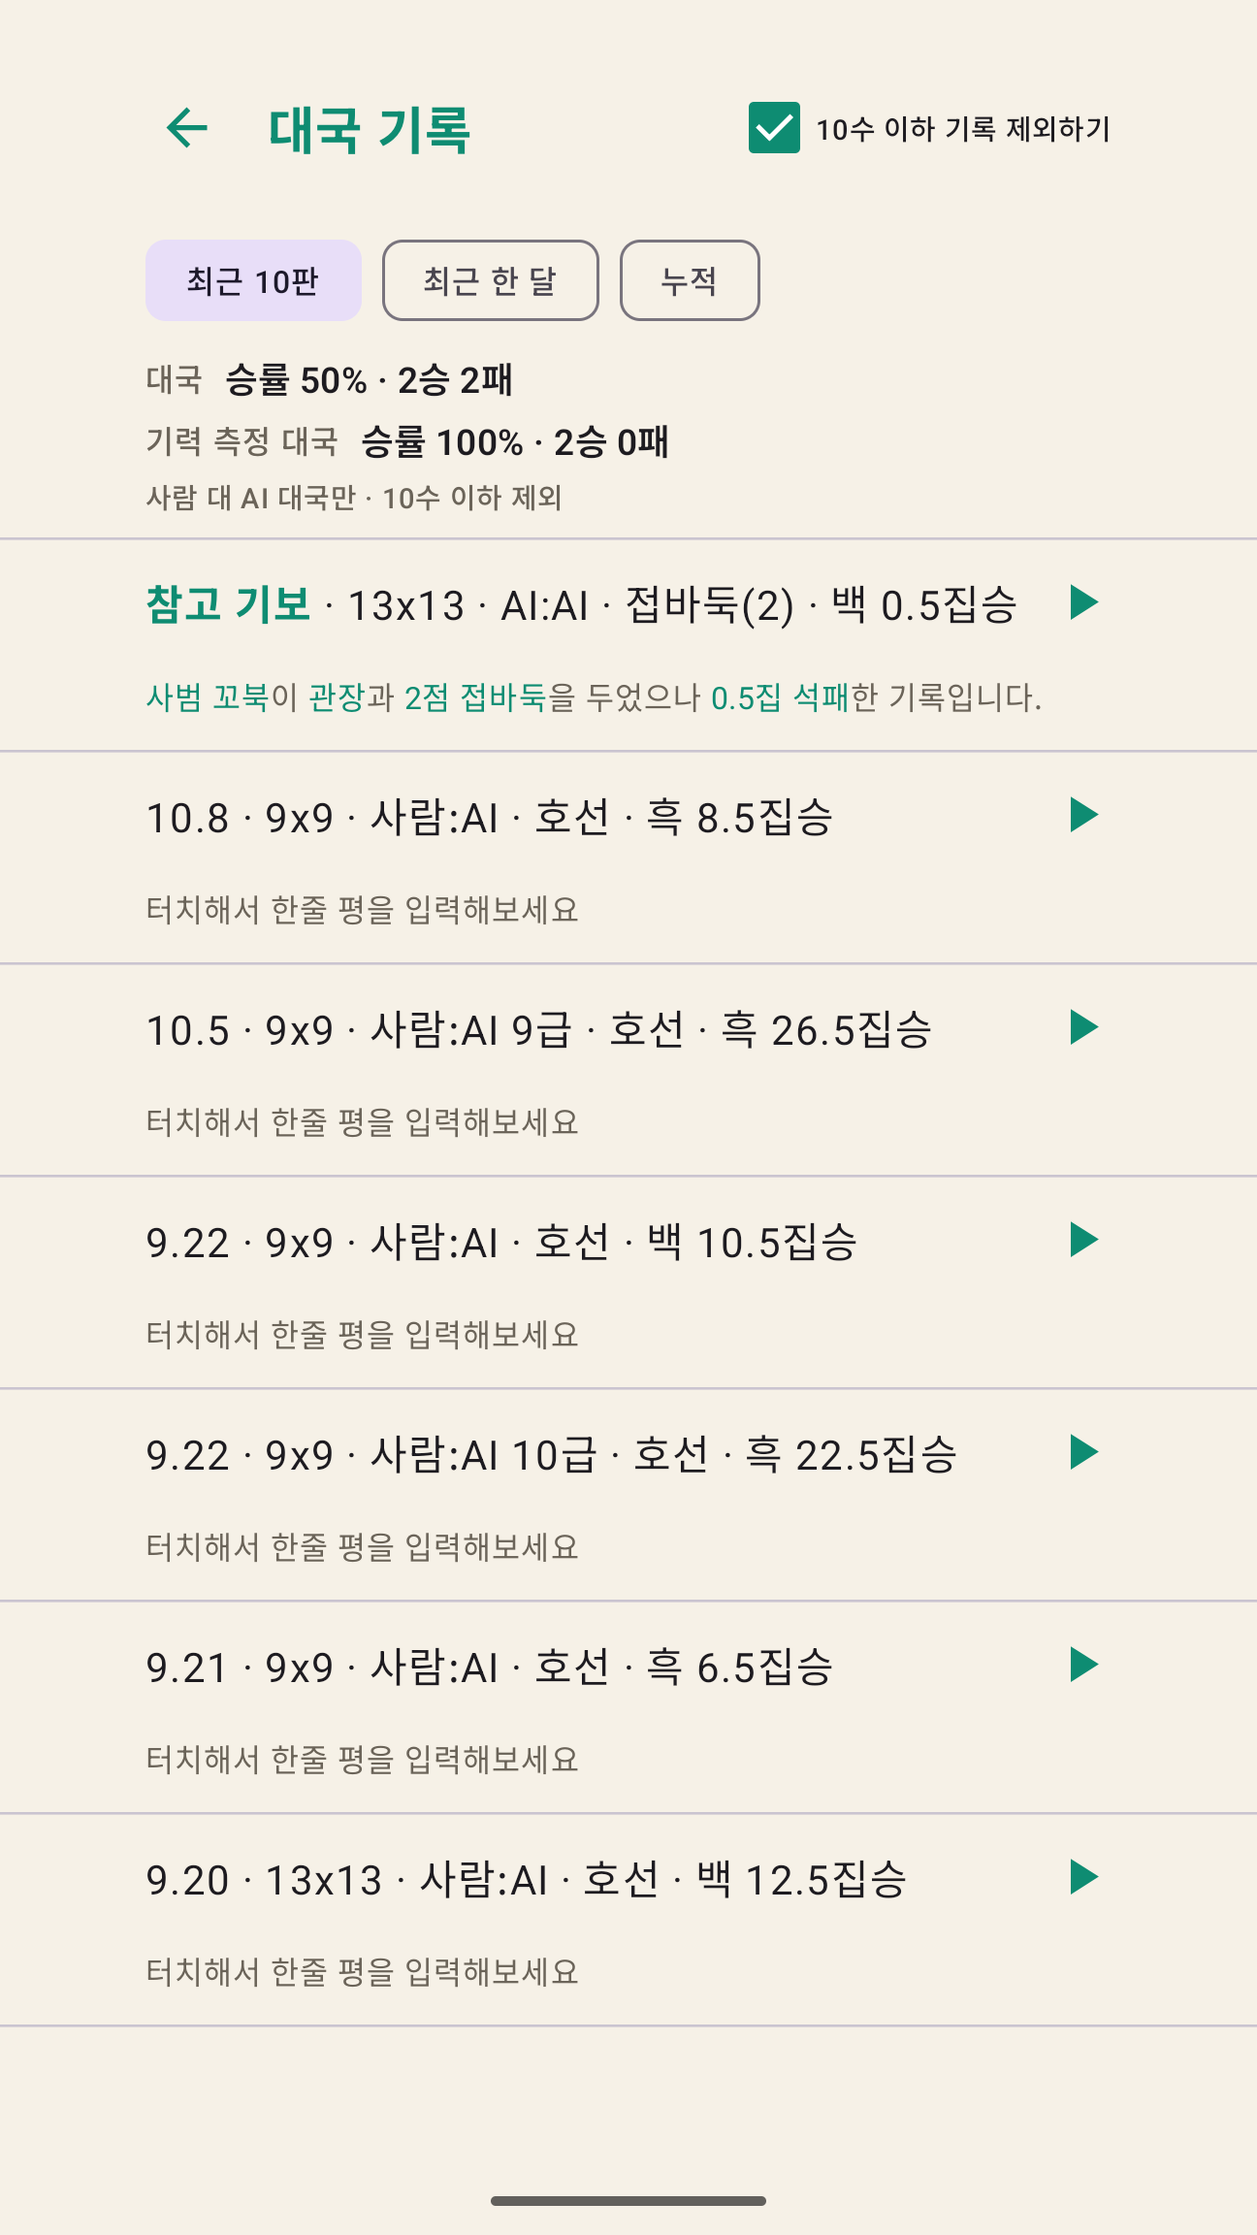
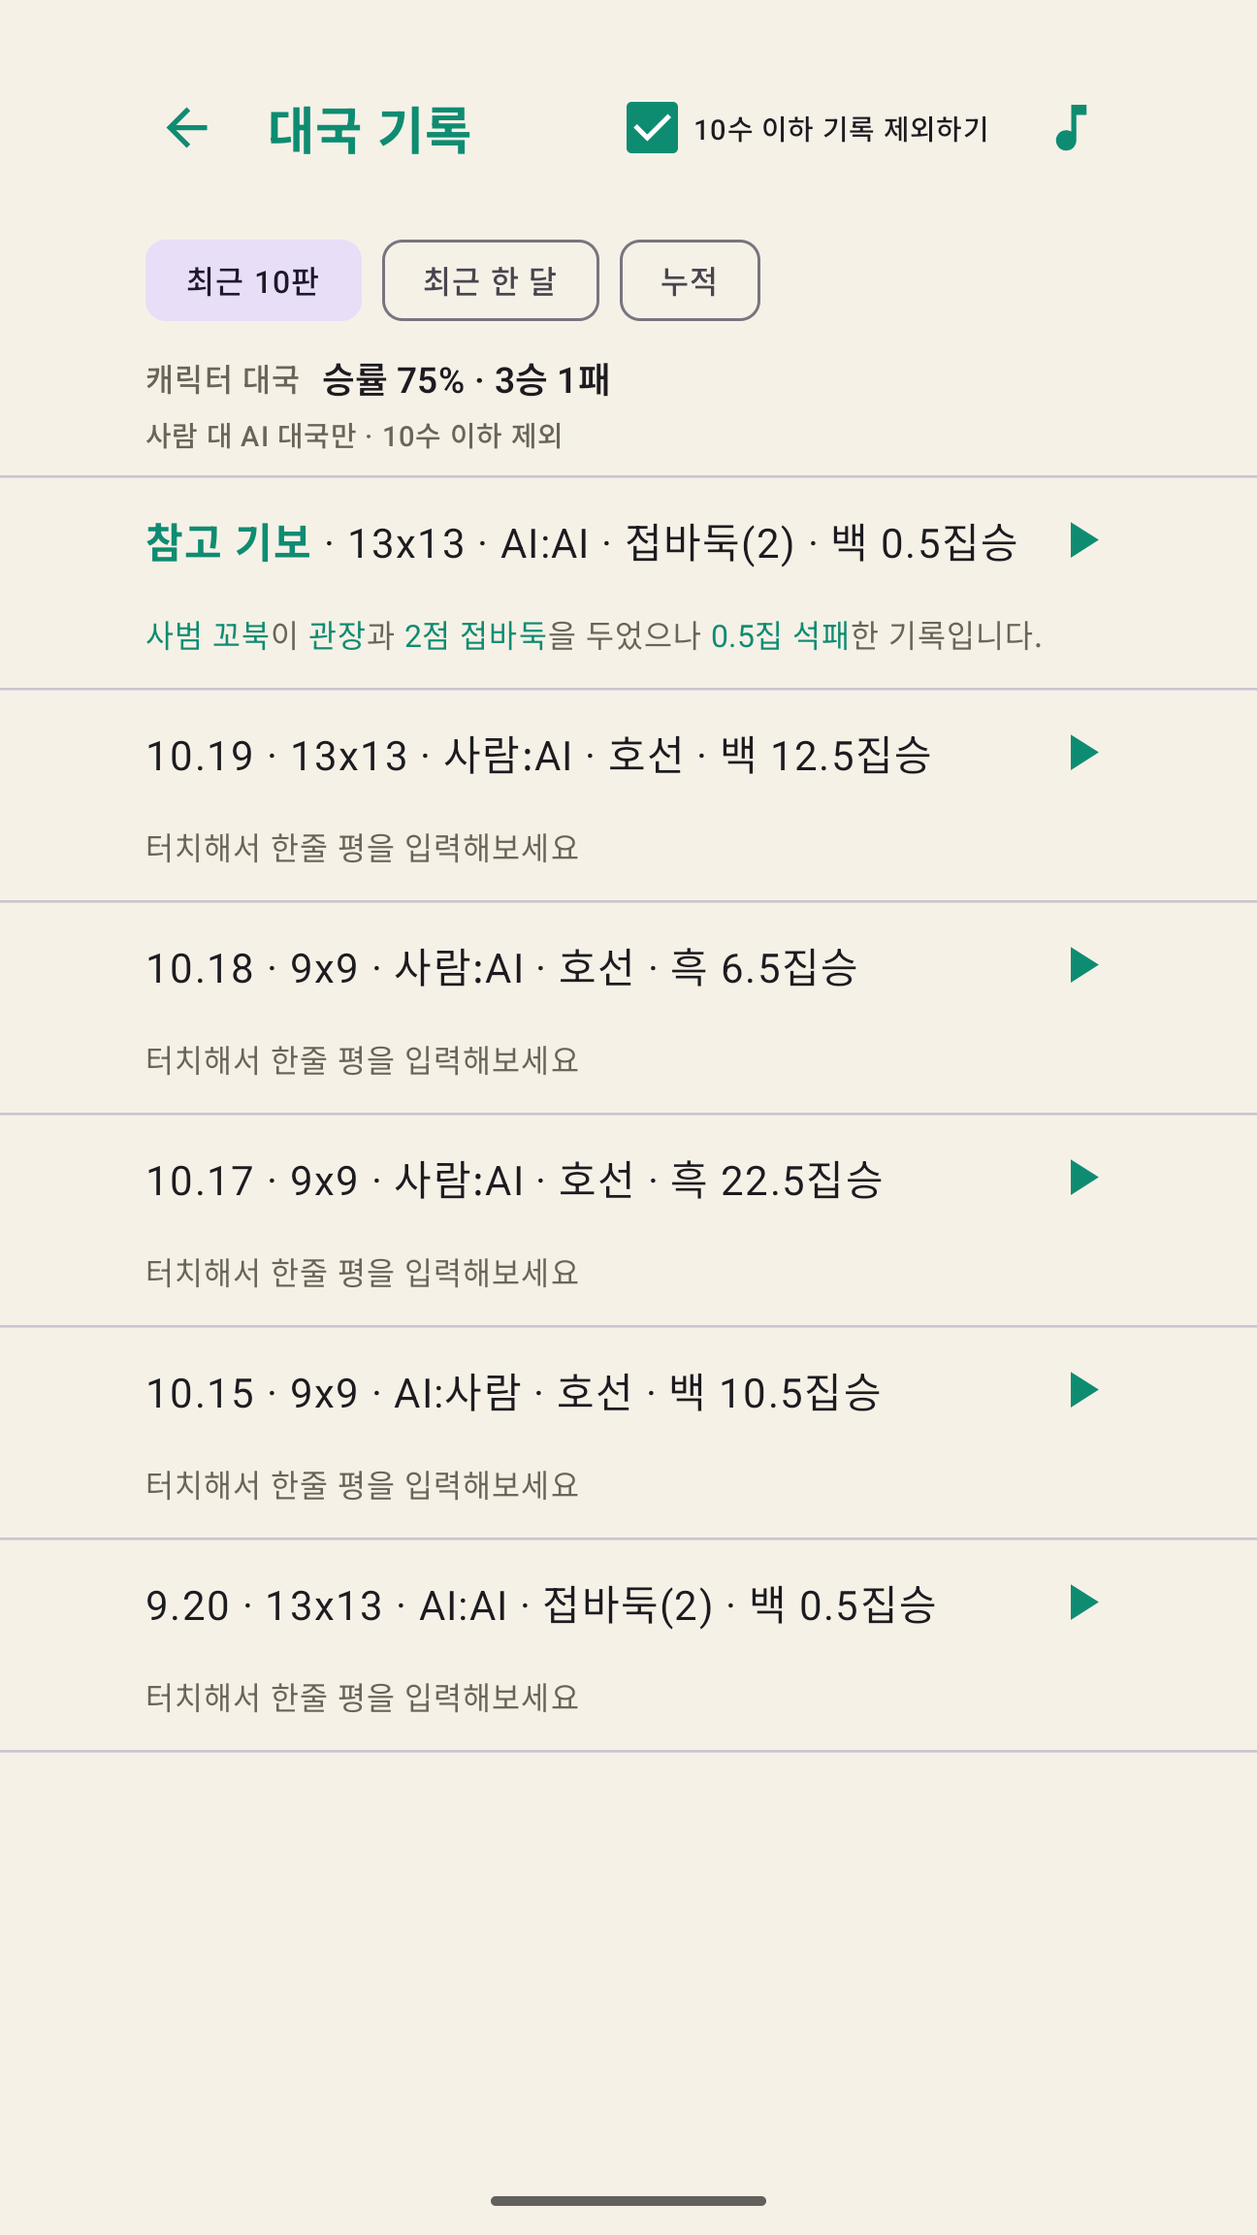
docs(store): 1.6.0 screenshots and three feature graphic drafts (user 2026-10-20)
Screenshots (phone, 7in and 10in folders hold the same eight; phone also keeps one alternate):
01 home · 02 game records (AlphaGo vs Lee Sedol game 4, move 78, with the estimate, graph and turning
points) · 03 in-game estimate · 04 match setup · 05 top moves (three candidates this time) · 06 board-photo
scan result (the recognized board; the photo itself stays on its own tab) · 07 game history (75% · 3-1)
· 08 my page. The order puts the 1.6.0 headline second; the user decides the upload order.
Captured on the emulator (Pixel 7, 1080x2400, offline so no test banner), debug 1.6.0 at 6c33500d,
converted with make-store-screenshots.py. Staging is listed in the README (branch game from the
reference record, history index seats rewritten and restored afterwards).

Feature graphics: A brand (grid icon stones + name + tagline), B screens (two real screens, no device
frame), C characters (the five opponents on a board). Based on 16 Go apps' feature graphics on Play;
key content inside the central 924x400. The old graphic stays; it still says 「바둑 AI」, 「무료」 and
「로그인 없음」. scripts/make-feature-graphics.py redraws all three byte-for-byte (font: Noto Sans CJK KR,
OFL, not stored in the repo).

diff --git a/scripts/make-feature-graphics.py b/scripts/make-feature-graphics.py
@@ -1,0 +1,144 @@
+#!/usr/bin/env python3
+"""Play 그래픽 이미지(1024x500) 세 안을 그린다 — A 브랜드형 · B 화면형 · C 캐릭터형(2026-10-20, `work/play-store-assets/README.md` 맨 위 절).
+
+사용법:
+    python3 scripts/make-feature-graphics.py <글꼴 폴더> <출력 폴더> A C B <대국 형세 캡처.png> <기보 보기 캡처.png>
+
+- 글꼴은 Noto Sans CJK KR(OFL 1.1 — 안드로이드의 한글 기본 글꼴과 같은 계열)의 Black · Bold · Medium OTF다. 저장소에 싣지 않는다:
+  https://github.com/notofonts/noto-cjk/tree/main/Sans/OTF/Korean
+- B의 두 캡처는 에뮬레이터 원본(1080x2400)이다 — 대국 화면(형세 보기를 켠 판)과 기보 보기(형세를 켠 판 · 그래프 · 변곡점).
+- 핵심(이름 · 문구 · 주 그림)은 가운데 924x400 안에 둔다(업계 관행 — Google은 픽셀 값을 공표하지 않는다). 결과는 불투명 RGB PNG.
+- 문구 규칙: 앱에 있는 것만 · 가격/무료/최고/다운로드 같은 판촉어 없음 · 「로그인 없이」를 쓰지 않음(2026-09-18 결정).
+
+Pillow가 필요하다. 릴리스 게이트에는 넣지 않는다 — 그래픽을 다시 만들 때 사람이 직접 돌린다.
+"""
+import sys, math, random
+from PIL import Image, ImageDraw, ImageFont, ImageFilter
+
+from pathlib import Path
+
+REPO = Path(__file__).resolve().parents[1]
+FONT_DIR = sys.argv[1]
+OUT = sys.argv[2]
+W, H = 1024, 500
+CREAM = (245, 240, 230)
+INK = (42, 37, 32)
+SUB = (107, 100, 89)       # BrandSecondaryColor
+TEAL = (14, 140, 114)      # BrandPrimaryColor
+
+def font(weight, size):
+    return ImageFont.truetype(f"{FONT_DIR}/NotoSansCJKkr-{weight}.otf", size)
+
+def text_w(d, s, f):
+    b = d.textbbox((0, 0), s, font=f); return b[2] - b[0]
+
+def brand(path):
+    im = Image.new("RGB", (W, H), CREAM)
+    icon = Image.open(f"{REPO}/work/play-store-assets/app_icon/app_icon_512x512_grid.png").convert("RGB").resize((470, 470), Image.LANCZOS)
+    im.paste(icon, (40, 15))
+    d = ImageDraw.Draw(im)
+    x = 520
+    f1, f2, f3 = font("Black", 74), font("Medium", 33), font("Bold", 25)
+    d.text((x, 118), "포켓 바둑 코치", font=f1, fill=INK)
+    d.text((x, 232), "AI와 두고, 돌아보고,", font=f2, fill=SUB)
+    d.text((x, 278), "명국을 한 수씩 놓아 보는 바둑", font=f2, fill=SUB)
+    # 짧은 낱말 셋 — 알약 모양으로(텍스트 줄이 아니라 표지처럼 읽히게)
+    y = 352; px = x
+    for word in ("캐릭터 대국", "형세 판단", "기보 보기"):
+        tw = text_w(d, word, f3)
+        d.rounded_rectangle([px, y, px + tw + 32, y + 46], radius=23, fill=(255, 255, 255), outline=TEAL, width=2)
+        d.text((px + 16, y + 6), word, font=f3, fill=TEAL)
+        px += tw + 32 + 12
+    assert px <= 974 + 12, px
+    im.save(path)
+
+def wood_board(size, lines=None, spacing=56, origin=(0, 0), seed=7):
+    """나뭇결이 살짝 있는 바둑판 바탕 + 격자."""
+    w, h = size
+    rnd = random.Random(seed)
+    im = Image.new("RGB", size, (226, 186, 112))
+    d = ImageDraw.Draw(im)
+    for y in range(h):  # 위아래로 아주 약한 그라데이션
+        t = y / h
+        d.line([(0, y), (w, y)], fill=(round(232 - 14 * t), round(193 - 14 * t), round(120 - 12 * t)))
+    grain = Image.new("L", size, 0); g = ImageDraw.Draw(grain)
+    for _ in range(140):
+        y0 = rnd.uniform(-40, h + 40); amp = rnd.uniform(4, 16); ph = rnd.uniform(0, 6.28); k = rnd.uniform(0.004, 0.012)
+        pts = [(x, y0 + amp * math.sin(k * x + ph)) for x in range(0, w + 8, 8)]
+        g.line(pts, fill=rnd.randint(10, 28), width=rnd.choice((1, 2)))
+    grain = grain.filter(ImageFilter.GaussianBlur(1.2))
+    im = Image.composite(Image.new("RGB", size, (150, 104, 48)), im, grain)
+    d = ImageDraw.Draw(im)
+    ox, oy = origin
+    line = (128, 92, 48)
+    xs = [ox + i * spacing for i in range(-20, 40) if 0 <= ox + i * spacing <= w]
+    ys = [oy + i * spacing for i in range(-20, 40) if 0 <= oy + i * spacing <= h]
+    for x in xs: d.line([(x, 0), (x, h)], fill=line, width=2)
+    for y in ys: d.line([(0, y), (w, y)], fill=line, width=2)
+    return im
+
+def characters(path):
+    im = wood_board((W, H), spacing=62, origin=(30, 26))
+    # 글자 자리에 크림 판(바둑판 위에 놓인 이름표처럼)
+    panel = Image.new("RGBA", (W, H), (0, 0, 0, 0)); pd = ImageDraw.Draw(panel)
+    pd.rounded_rectangle([56, 42, 600, 176], radius=22, fill=(245, 240, 230, 238))
+    im = Image.alpha_composite(im.convert("RGBA"), panel)
+    d = ImageDraw.Draw(im)
+    d.text((84, 52), "포켓 바둑 코치", font=font("Black", 56), fill=INK)
+    d.text((86, 126), "15급부터 7단까지, 다섯 상대와 한 판", font=font("Medium", 29), fill=SUB)
+    # 다섯 캐릭터 — 약한 상대부터 왼쪽으로(문하생 판다 · 문하생 돌뫼 · 수제자 반상 · 사범 꼬북 · 관장 천원)
+    size = 236
+    xs = [62, 226, 390, 554, 718]
+    for i, x in enumerate(xs, start=1):
+        c = Image.open(f"{REPO}/app-android/src/main/res/drawable-nodpi/bot_fast_beginner_{i}.webp").convert("RGBA").resize((size, size), Image.LANCZOS)
+        # 발밑 그림자
+        sh = Image.new("RGBA", (W, H), (0, 0, 0, 0)); sd = ImageDraw.Draw(sh)
+        sd.ellipse([x + 40, 418, x + size - 40, 442], fill=(60, 35, 10, 90))
+        im = Image.alpha_composite(im, sh.filter(ImageFilter.GaussianBlur(6)))
+        im.alpha_composite(c, (x, 208))
+    im.convert("RGB").save(path)
+
+def card(capture, box, height, radius=22):
+    im = Image.open(capture).convert("RGB").crop(box)
+    w = round(im.width * height / im.height)
+    im = im.resize((w, height), Image.LANCZOS).convert("RGBA")
+    m = Image.new("L", im.size, 0); ImageDraw.Draw(m).rounded_rectangle([0, 0, w - 1, height - 1], radius=radius, fill=255)
+    im.putalpha(m)
+    return im
+
+def place(base, im, xy, angle):
+    rot = im.rotate(angle, resample=Image.BICUBIC, expand=True)
+    shadow = Image.new("RGBA", base.size, (0, 0, 0, 0))
+    sm = Image.new("RGBA", rot.size, (0, 0, 0, 0)); sm.putalpha(rot.getchannel("A").point(lambda a: a * 0.45))
+    shadow.alpha_composite(sm, (xy[0] + 6, xy[1] + 10))
+    base.alpha_composite(shadow.filter(ImageFilter.GaussianBlur(10)))
+    base.alpha_composite(rot, xy)
+
+def screens(path, game_capture, records_capture):
+    im = Image.new("RGBA", (W, H))
+    d = ImageDraw.Draw(im)
+    for x in range(W):  # 왼쪽 위 밝은 청록 → 오른쪽 아래 짙은 청록
+        t = x / W
+        d.line([(x, 0), (x, H)], fill=(round(16 - 6 * t), round(150 - 40 * t), round(122 - 32 * t), 255))
+    d.text((66, 140), "포켓 바둑 코치", font=font("Black", 56), fill=(255, 255, 255))
+    d.text((68, 230), "두면서 형세를 보고,", font=font("Medium", 30), fill=(214, 240, 232))
+    d.text((68, 274), "명국은 한 수씩 놓아 보는 바둑", font=font("Medium", 30), fill=(214, 240, 232))
+    f = font("Bold", 22); y = 344; px = 68
+    for word in ("형세 판단", "추천 수", "기보 보기"):
+        tw = text_w(d, word, f)
+        d.rounded_rectangle([px, y, px + tw + 28, y + 40], radius=20, outline=(214, 240, 232), width=2)
+        d.text((px + 14, y + 5), word, font=f, fill=(255, 255, 255))
+        px += tw + 28 + 10
+    # 오른쪽 — 실제 화면 두 장(기기 틀 없이): 대국 중 형세 · 기보 보기(그래프 · 형세)
+    game = card(game_capture, (0, 420, 1080, 1950), 358)
+    rec = card(records_capture, (0, 370, 1080, 1870), 358)
+    place(im, game, (500, 62), 4)
+    place(im, rec, (676, 66), -4)
+    im.convert("RGB").save(path)
+
+
+if __name__ == "__main__":
+    which = sys.argv[3:] or ["A", "C"]
+    if "A" in which: brand(f"{OUT}/feature_graphic_1024x500_A_brand.png")
+    if "C" in which: characters(f"{OUT}/feature_graphic_1024x500_C_characters.png")
+    if "B" in which: screens(f"{OUT}/feature_graphic_1024x500_B_screens.png", sys.argv[sys.argv.index("B") + 1], sys.argv[sys.argv.index("B") + 2])

diff --git a/work/play-store-assets/README.md b/work/play-store-assets/README.md
@@ -4,6 +4,43 @@
 
 ⚠ **2026-09-13 갱신 — 이 폴더 자체가 정본이다.** 예전엔 이 자리가 `dist/`(gitignore 대상, 로컬 전용)였고 git 추적 정본은 별도로 `design-handoff/export/2026-08-11-v0.1.2/`에 있었다. 그 이원화를 접고 **하나로 합쳤다** — `design-handoff/`는 삭제했고(옛 라운드별 스냅샷은 git 히스토리로만 남는다), 지금 `work/play-store-assets/`가 git에 커밋되는 유일한 사본이자 Play Console에 그대로 올리는 사본이다. 버전 이력은 라운드 폴더를 새로 만들지 않고 git으로 추적하며, 필요하면 날짜 붙인 폴더/파일을 추가할 수 있다(사용자 결정). `AppNameContractTest`가 이 폴더의 `store_listing.txt`를 실제 경로로 읽는다.
 
+## 2026-10-20 — 스크린샷 재캡처 (1.6.0 기준 · 여덟 장 + 대체 한 장)
+
+사용자(2026-10-20): *"앱 스크린샷도 최신 1.6.0 기준으로 새로 찍기"*. 직전 세트(2026-10-08, 1.2.0) 뒤로 화면마다 윗줄에 음표 버튼(#270)이 붙었고,
+홈 타일이 넷(대국 기록 · 기보 보기 · 바둑판 사진 분석 · 학습 하기)이 됐고, **기보 보기**(1.6.0)와 **바둑판 사진 분석**(1.5.0)이 생겼다.
+⚠ **순서를 바꿨다(스레드가 정한 것)** — Play는 앞의 몇 장을 크게 보이므로 1.6.0의 머리기사(기보 보기)를 둘째에 두었다. 올릴 때 순서는 사용자가 정한다.
+
+| 파일 | 무엇을 파는가 | 연출 |
+| --- | --- | --- |
+| `01_home` | 정체성 · 홈 타일 넷 · 음표 버튼 | 저장된 대국을 잠시 지워 「이전 대국 이어하기」가 안 뜨게 · 「1.6.0에서 달라진 점」 띠는 닫음 |
+| `02_gamerecords` | **1.6.0** 기보 보기 — 형세 영역 · 형세 그래프 · 변곡점 | 「알파고 대 이세돌 (2016) · 4국」 78수(「신의 한 수」)에서 형세 보기(1회권) — 미리 잰 형세다 |
+| `03_eval` | **차별점** — 대국 중 형세(집) | 아래 대국의 73수에서 형세 보기(무료 3) → 「흑 8.2집 우세」 |
+| `04_setup` | 상대 캐릭터 · 판 · 접바둑 | 흑 유저 / 백 수제자 반상(1급 수준) |
+| `05_topmoves` | 추천 수 | 같은 73수 — 이번에는 후보가 셋 뜬다(직전 세트의 약한 한 장이 풀렸다) |
+| `06_boardscan` | **1.5.0** 바둑판 사진 분석 | 사진첩의 실물 바둑판 사진 → 판 자동 찾기 → 인식 결과(「보정한 판」 탭). ⚠ 사진 자체는 「원본 사진」 탭에만 있어 컷에 안 나온다 — 받은 사진이라 사람 손이 찍힌 것이 있다 |
+| `07_history` | 대국 기록 · 승률 | 기록 색인 연출(아래) — 「승률 75% · 3승 1패」 |
+| `08_mypage` | 기력 · 내 캐릭터 · 구독 · 출석 · 1회권 | 같은 연출로 「캐릭터 대국 승률 75%」 |
+| `alt_gameplay` | 대국 화면 그대로(오버레이 없음) — `phone_screenshots/`에만 | 73수 |
+
+- **대국 화면 연출**: 대국 기록의 「참고 기보」(13줄 · 2점) 61수에서 「61수부터 새 대국」 → 분기 대국은 기록의 좌석(AI 대 AI)을 따라오므로 ☰에서 흑 유저 / 백 수제자 반상으로 바꿨다 — 바꾸는 사이 AI끼리 73수까지 두었다.
+- **기록 색인 연출**(`files/game_history/index.json`): 1~3수 테스트 기권 셋을 빼고, AI끼리 끝까지 둔 네 판의 좌석을 사람 대 AI로(3승 1패), 날짜를 10-15~10-19로 옮겼다. 참고 기보는 그대로. 촬영 뒤 앱 데이터는 백업(tar)으로 되돌렸다.
+- **뺀 것**: `03_gameplay`(→ `alt_gameplay`) · `08_judgement`(1.2.0 컷 — 끝난 판 연출이 필요해 다시 찍지 않았다) · `alt_picker`(04와 겹친다) · `alt_replay_graph`(02가 그래프를 보여 준다). 옛 파일은 git에 있다.
+- **조건**: 에뮬레이터 Pixel 7(1080x2400 · 420dpi · 글자 1.0 · 한국어) · 개발 빌드 1.6.0/10600(HEAD `6c33500d`) · 구독하지 않은 계정 · **오프라인**(개발 빌드의 다시보기·기보 보기 배너가 안 뜨게).
+  변환은 그대로 `scripts/make-store-screenshots.py`. ⚠ 대국 화면 좌상단의 빌드타임 태그(`v261020.1244`)는 릴리스에도 나온다. 세 폴더는 같은 여덟 장이다.
+
+## 2026-10-20 — 그래픽 이미지 세 안 (`feature_graphic/feature_graphic_1024x500_{A_brand,B_screens,C_characters}.png`)
+
+사용자(2026-10-20): *"다른 바둑앱 및 안드로이드 앱 관행상 어떤 이미지 넣는지 파악 후 3가지 버전 생성"*. 옛 그래픽(`feature_graphic_1024x500.png`)은 그대로 둔다 —
+⚠ 옛 이름 「바둑 AI」 · 「무료」 · 「로그인 없음」(2026-09-18 결정으로 판매 문구에서 뺐다)이 박혀 있어 **지금 콘솔에 걸린 것이라면 바꾸는 것이 맞다.**
+- **조사**(Play 스토어의 바둑 앱 16개의 그래픽 이미지를 받아 봤다): ① 앱 이름 + 바둑판·돌 그림이 가장 많다(아Q · 야호 · 넷마블 · 타이젬 · 바둑 배우기 · 프로바둑)
+  ② 앱 화면을 보여 준다(바둑 팝 · AI 카타고 · Sente) ③ 캐릭터가 앞에 선다(한게임 · 타이젬 · PlayGo · 렛츠고) ④ 글자 없는 그림 하나(Dango · ElyGo). 공통: 글자는 이름 + 짧은 한 줄, 가격·다운로드 문구 없음.
+  Google은 안전 영역의 픽셀 값을 공표하지 않는다 — 업계 관행(가운데 924x400)을 따랐다.
+- **A 브랜드형** — 새 격자 아이콘의 돌 + 「포켓 바둑 코치」 + 「AI와 두고, 돌아보고, 명국을 한 수씩 놓아 보는 바둑」 + 낱말 셋. 아이콘과 하나로 읽힌다.
+- **B 화면형** — 청록 바탕에 실제 화면 두 장(대국 중 형세 · 기보 보기 그래프)을 기기 틀 없이. 기능이 보이지만 작게 보이면 화면 속 글자는 안 읽힌다.
+- **C 캐릭터형** — 바둑판 위에 다섯 상대(문하생 판다 · 문하생 돌뫼 · 수제자 반상 · 사범 꼬북 · 관장 천원) + 「15급부터 7단까지, 다섯 상대와 한 판」. 다른 바둑 앱과 가장 잘 갈린다.
+- 글꼴은 Noto Sans CJK KR(OFL 1.1, 저장소에 싣지 않는다). 다시 그리기: `scripts/make-feature-graphics.py`(같은 입력이면 같은 파일이 나온다).
+- ⚠ 콘솔에 올릴 하나는 사용자가 고른다.
+
 ## 2026-10-20 — 앱 아이콘에 5줄 바둑판 격자 (`app_icon/app_icon_512x512_grid.png`)
 
 사용자(2026-10-20): *"앱 아이콘의 배경에 바둑판 격자가 5*5 사이즈로 연하게 … 새로운 아이콘 파일로 생성하기"*.
@@ -14,7 +51,7 @@
   격자 간격 12.5dp — 원형 마스크에서도 판 테두리까지 보이는 가장 넓은 간격이다. 「5*5」는 바둑의 5줄 판(교차점 25)으로 읽었다.
   minSdk 26이라 기기는 늘 적응형 아이콘을 쓴다 — `mipmap-*/ic_launcher.png`(옛 그림)는 화면에 나오지 않아 그대로 두었다.
 
-## 2026-10-08 — 스크린샷 재캡처 (1.2.0 기준 · 여덟 장 + 교체 후보 둘, 백로그 #230)
+## 2026-10-08 — 스크린샷 재캡처 (1.2.0 기준 · 여덟 장 + 교체 후보 둘, 백로그 #230) — ⚠ 2026-10-20 세트로 바뀌었다(위). 아래 파일 이름은 옛 세트다
 
 **왜 다시 찍었나**: 직전 세트(2026-09-19, 908 기준)가 1.2.0의 화면과 달라졌다 — 홈에 「승급 대국」 카드가 생겼고,
 대국 설정에 돌 그림·캐릭터 얼굴·급수가 붙었고, 대국 화면에 착수 칸과 「무료 3」이 생겼고, 대국 기록에 승률이 붙었다.
